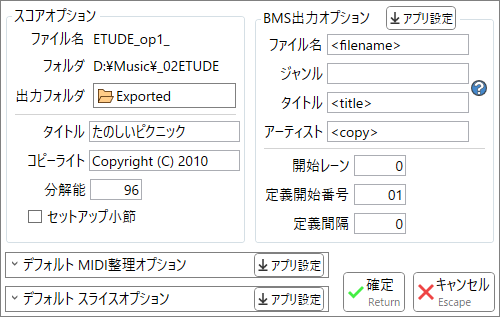
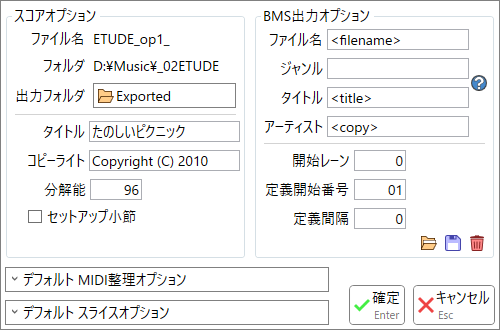
v0.7.21

diff --git a/docs/history.html b/docs/history.html
@@ -10,6 +10,61 @@
         <div class="content">
             <ul>
                 <li>
+                    <details id="0_7_21">
+                        <summary class="a-like">Version 0.7.21 (2025/08/13)</summary>
+                        <ul>
+                            <li>
+                                仕様変更
+                                <ul>
+                                    <li>
+                                        <a href="bms.html">BMSモード</a>の右クリクメニュー内「選択機能」と「アセンブル」にショートカットキーを追加しました。
+                                    </li>
+                                    <li>
+                                        <a href="bms.html">BMSモード</a>において、ファイルを保存しようとする際に、サイズが大きくなる場合は警告を表示するようにしました。
+                                    </li>
+                                    <li>
+                                        <a href="midi.html">Midiモード</a>において、トラックリストの項目をダブルクリックすると<a href="midi_trackOptions.html">トラックオプション</a>が開くようにしました。
+                                    </li>
+                                    <li>
+                                        <a href="midi.html">Midiモードの</a>「MIDI整理」「スライス」「BMS出力」の各オプションについて、プリセットをファイルとして保存及び読み込みするボタンと、全項目をデフォルト値にリセットするボタンを追加しました。
+                                        <ul>
+                                            <li>
+                                                リセットボタンで適用される「デフォルト値」はオプションの場所によって異なります。
+                                            </li>
+                                            <li>
+                                                <a href="midi_defaultOptions.html">デフォルトオプション</a>: アプリの初回起動時の値
+                                            </li>
+                                            <li>
+                                                <a href="midi_scoreOptions.html">スコアオプション</a>及びそれが参照されるウィンドウ: 「デフォルトオプション」で設定された値
+                                                <ul>
+                                                    <li>
+                                                        以前のバージョンで「アプリ設定」ボタンが担っていた役割と同じです。
+                                                    </li>
+                                                    <li>
+                                                        この変更に伴い「アプリ設定」ボタンは削除されました。
+                                                    </li>
+                                                </ul>
+                                            </li>
+                                            <li>
+                                                <a href="midi_trackOptions.html">トラックオプション</a>及びそれが参照されるウィンドウ: 「スコアオプション」で設定された値
+                                            </li>
+                                        </ul>
+                                    </li>
+                                    <li>
+                                        <a href="midi_pack.html">Midiモード/MIDI整理</a>のオプションに「右詰め」を追加しました。
+                                        <ul>
+                                            <li>
+                                                チェックした場合、そのトラック由来のノートはBMSにおいて右詰めで配置されます。
+                                            </li>
+                                        </ul>
+                                    </li>
+                                </ul>
+                            </li>
+                        </ul>
+                        <br>
+                    </details>
+                </li>
+                <li>
                     <details id="0_7_20">
                         <summary class="a-like">Version 0.7.20 (2025/08/02)</summary>
                         <ul>

diff --git a/docs/midi_defaultOptions.html b/docs/midi_defaultOptions.html
@@ -23,14 +23,17 @@
                 <h2>説明</h2>
                 要素をクリックすると説明が表示されます。
                 <div class="image-map" src="img/midi_defaultOptions.png" maps="
-                       1,  1,239,442, midi/bms_groupbox.html, center;
-                     241,  1,439,442, midi/pack_groupbox.html, center;
-                     681,  1,411,442, midi/slice_groupbox.html, center;
+                       1,  1,239, 26, midi/bms_groupbox.html;
+                     241,  1,439, 26, midi/pack_groupbox.html;
+                     681,  1,411, 26, midi/slice_groupbox.html;
                       11, 25,204, 29, midi/bms_filename.html;
                       11, 54,204, 87, midi/bms_header.html;
                       11,146,150, 29, midi/bms_startLane.html;
                       11,175,150, 29, midi/bms_defStart.html;
                       11,204,150, 29, midi/bms_defInterval.html;
+                     159,231, 24, 24, midi/options_open.html;
+                     183,231, 24, 24, midi/options_save.html;
+                     207,231, 24, 24, midi/options_reset_default.html;
                      251, 27,209, 92, midi/pack_quantize.html;
                      261,141,189, 25, midi/pack_tempo.html;
                      261,167,189, 29, midi/pack_msV.html;
@@ -42,13 +45,20 @@
                      261,395,189, 29, midi/pack_interval.html;
                      470, 49,191, 82, midi/pack_markerFormat.html;
                      471,137,189,121, midi/pack_order.html;
-                     470,259,191, 29, midi/pack_multiDef.html;
-                     470,288,191, 55, midi/pack_cutTail.html;
-                     692, 28,190,112, wave/trackMark_marking.html;
-                     701,165,172, 51, midi/slice_baseName.html;
-                     701,216,172, 29, wave/bytes.html;
-                     884, 28,197,118, wave/slice_leftProcess.html;
-                     884,150,197,147, wave/slice_rightProcess.html;
+                     470,259,191, 26, midi/pack_alignToRight.html;
+                     470,285,191, 29, midi/pack_multiDef.html;
+                     470,314,191, 55, midi/pack_cutTail.html;
+                     599,377, 24, 24, midi/options_open.html;
+                     623,377, 24, 24, midi/options_save.html;
+                     647,377, 24, 24, midi/options_reset_default.html;
+                     692, 27,198,119, wave/slice_leftProcess.html;
+                     692,146,198,149, wave/slice_rightProcess.html;
+                     890, 27,192,113, wave/trackMark_marking.html;
+                     896,164,180, 51, midi/slice_baseName.html;
+                     896,215,180, 29, wave/bytes.html;
+                    1010,251, 24, 24, midi/options_open.html;
+                    1034,251, 24, 24, midi/options_save.html;
+                    1058,251, 24, 24, midi/options_reset_default.html;
                      942,448, 56, 40, common/sub_decide.html;
                     1006,448, 82, 40, common/sub_cancel.html;">
                 </div>

diff --git a/docs/midi_scoreOptions.html b/docs/midi_scoreOptions.html
@@ -24,18 +24,18 @@
                      12,146,228, 29, midi/score_copy.html;
                      12,175,228, 29, midi/score_resolution.html;
                      12,204,228, 25, midi/score_setup.html;
-                    261, 30,227, 29, midi/bms_filename.html;
-                    261, 59,209, 87, midi/bms_header.html;
-                    261,151,227, 29, midi/bms_startLane.html;
-                    261,180,227, 29, midi/bms_defStart.html;
-                    261,209,227, 29, midi/bms_defInterval.html;
-                      5,252,324, 26, midi/score_packOptions.html;
-                      5,286,324, 26, midi/score_sliceOptions.html;
-                    386,  6, 70, 24, midi/appSetting.html;
-                    254,253, 70, 24, midi/appSetting.html;
-                    254,287, 70, 24, midi/appSetting.html;
-                    343,272, 62, 40, common/sub_decide.html;
-                    413,272, 82, 40, common/sub_cancel.html;">
+                    261, 25,227, 29, midi/bms_filename.html;
+                    261, 54,209, 87, midi/bms_header.html;
+                    261,146,227, 29, midi/bms_startLane.html;
+                    261,175,227, 29, midi/bms_defStart.html;
+                    261,204,227, 29, midi/bms_defInterval.html;
+                      5,267,324, 25, midi/score_packOptions.html;
+                      5,300,324, 25, midi/score_sliceOptions.html;
+                    417,231, 24, 24, midi/options_open.html;
+                    441,231, 24, 24, midi/options_save.html;
+                    465,231, 24, 24, midi/options_reset_score.html;
+                    349,285, 56, 40, common/sub_decide.html;
+                    413,285, 82, 40, common/sub_cancel.html;">
                 </div>
             </div>
             <div class="common" src="midi/pack_options.html"></div>

diff --git a/docs/midi_trackOptions.html b/docs/midi_trackOptions.html
@@ -18,15 +18,15 @@
                 <h2>説明</h2>
                 要素をクリックすると説明が表示されます。
                 <div class="image-map" src="img/midi_trackOptions.png" maps="
-                     12, 25,239, 29, midi/track_title.html;
-                     12, 54,239, 58, midi/track_portChannel.html;
-                     12,112,239, 27, midi/track_sideChain.html;
-                     12,139,239, 25, midi/track_system.html;
-                     12,165,239, 25, midi/track_bms.html;
-                    265, 16,152, 51, midi/track_packOptions.html;
-                    265, 75,152, 51, midi/track_sliceOptions.html;
-                    265,157, 62, 40, common/sub_decide.html;
-                    335,157, 82, 40, common/sub_cancel.html;">
+                      7, 25,249, 29, midi/track_title.html;
+                      7, 54,249, 58, midi/track_portChannel.html;
+                      7,112,249, 27, midi/track_sideChain.html;
+                      7,139,249, 25, midi/track_system.html;
+                      7,165,249, 25, midi/track_bms.html;
+                    265, 16,146, 51, midi/track_packOptions.html;
+                    265, 75,146, 51, midi/track_sliceOptions.html;
+                    265,157, 56, 40, common/sub_decide.html;
+                    329,157, 82, 40, common/sub_cancel.html;">
                 </div>
             </div>
             <div class="common" src="midi/pack_options.html"></div>

diff --git a/docs/midi_bmsExport.html b/docs/midi_bmsExport.html
@@ -18,16 +18,19 @@
                 <h2>説明</h2>
                 要素をクリックすると説明が表示されます。
                 <div class="image-map" src="img/midi_bmsExport.png" maps="
-                      5,  5,242,360, midi/bms_track.html, center;
+                      5,  5,242,380, midi/bms_track.html, center;
                     261, 26,220, 50, midi/bms_target.html;
                     261, 77,220, 29, midi/bms_filename.html;
                     261,106,200, 87, midi/bms_header.html;
                     261,198,220, 29, midi/bms_startLane.html;
                     261,227,220, 29, midi/bms_defStart.html;
                     261,256,220, 29, midi/bms_defInterval.html;
-                    373,295,118, 25, midi/bms_open.html;
-                    307,325, 90, 40, midi/bms_export.html;
-                    405,325, 82, 40, common/sub_cancel.html;">
+                    409,283, 24, 24, midi/options_open.html;
+                    433,283, 24, 24, midi/options_save.html;
+                    457,283, 24, 24, midi/options_reset_score.html;
+                    373,315,118, 25, midi/bms_open.html;
+                    307,345, 90, 40, midi/bms_export.html;
+                    405,345, 82, 40, common/sub_cancel.html;">
                 </div>
             </div>
         </div>

diff --git a/docs/midi/options_reset.html b/docs/midi/options_reset.html
@@ -1,0 +1,20 @@
+<h3><img src="img/icons/Delete.png" class="icon">内容の初期化</h3>
+<ul>
+    <li>
+        各項目の内容をデフォルト値にします。
+    </li>
+    <li>
+        何がデフォルト値として参照されるかはオプションの場所によって異なります。
+        <ul>
+            <li>
+                <a href="midi_defaultOptions.html">デフォルトオプション</a>: アプリの初回起動時の値
+            </li>
+            <li>
+                <a href="midi_scoreOptions.html">スコアオプション</a>及びそれが参照されるウィンドウ: 「デフォルトオプション」で設定された値
+            </li>
+            <li>
+                <a href="midi_trackOptions.html">トラックオプション</a>及びそれが参照されるウィンドウ: 「スコアオプション」で設定された値
+            </li>
+        </ul>
+    </li>
+</ul>

diff --git a/docs/midi_pack.html b/docs/midi_pack.html
@@ -31,8 +31,12 @@
                      11,429,189, 29, midi/pack_interval.html;
                     220, 83,191, 82, midi/pack_markerFormat.html;
                     221,171,189,121, midi/pack_order.html;
-                    220,293,191, 29, midi/pack_multiDef.html;
-                    220,322,191, 55, midi/pack_cutTail.html;
+                    220,293,191, 26, midi/pack_alignToRight.html;
+                    220,319,191, 29, midi/pack_multiDef.html;
+                    220,348,191, 55, midi/pack_cutTail.html;
+                    349,411, 24, 24, midi/options_open.html;
+                    373,411, 24, 24, midi/options_save.html;
+                    397,411, 24, 24, midi/options_reset.html;
                      93,472, 90, 40, midi/pack_export.html;
                     191,472,136, 40, midi/pack_and_next.html;
                     335,472, 82, 40, common/sub_cancel.html;">

diff --git a/docs/midi/slice_options.html b/docs/midi/slice_options.html
@@ -2,11 +2,14 @@
     <h2>スライスオプション</h2>
     要素をクリックすると説明が表示されます。
     <div class="image-map" src="img/midi_slice_options.png" maps="
-          2,  4,190,112, wave/trackMark_marking.html;
-         11,141,172, 51, midi/slice_baseName.html;
-         11,192,172, 29, wave/bytes.html;
-        194,  4,197,118, wave/slice_leftProcess.html;
-        194,126,197,145, wave/slice_rightProcess.html;
+          1,  1,199,123, wave/slice_leftProcess.html;
+          1,124,199,148, wave/slice_rightProcess.html;
+        200,  1,193,115, wave/trackMark_marking.html;
+        206,140,180, 51, midi/slice_baseName.html;
+        206,191,180, 29, wave/bytes.html;
+        320,227, 24, 24, midi/options_open.html;
+        344,227, 24, 24, midi/options_save.html;
+        368,227, 24, 24, midi/options_reset.html;
         ">
     </div>
 </div>

diff --git a/docs/midi/pack_options.html b/docs/midi/pack_options.html
@@ -12,9 +12,13 @@
        11,342,189, 29, midi/pack_headroom.html;
        11,371,189, 29, midi/pack_interval.html;
       220, 25,191, 82, midi/pack_markerFormat.html;
-      221,113,189,121, midi/pack_order.html;
-      220,235,191, 29, midi/pack_multiDef.html;
-      220,264,191, 55, midi/pack_cutTail.html;
+      220,113,191,121, midi/pack_order.html;
+      220,235,191, 26, midi/pack_alignToRight.html;
+      220,261,191, 29, midi/pack_multiDef.html;
+      220,290,191, 55, midi/pack_cutTail.html;
+      349,353, 24, 24, midi/options_open.html;
+      373,353, 24, 24, midi/options_save.html;
+      397,353, 24, 24, midi/options_reset.html;
       ">
   </div>
   <ul>

diff --git a/docs/midi/options_open.html b/docs/midi/options_open.html
@@ -1,0 +1,12 @@
+<h3><img src="img/icons/Open.png" class="icon">プリセットの読み込み</h3>
+<ul>
+    <li>
+        このオプションの内容が記録された<span class="script">.json</span>ファイルを開き、<br>
+        各項目の内容に反映します。
+    </li>
+    <li>
+        <b>読み込んだ<span class="script">.json</span>が期待通りの構造であるかは確認しません</b>。<br>
+        必要な項目が<span class="script">.json</span>側で定義されていない場合は、<br>
+        アプリで用意されたデフォルト値が適用されます。
+    </li>
+</ul>

diff --git a/docs/midi/pack_alignToRight.html b/docs/midi/pack_alignToRight.html
@@ -1,0 +1,15 @@
+<h3>右詰め</h3>
+<ul>
+    <li>
+        チェックした場合、複数のBGMレーンを占有するトラックについて、<br>
+        右詰めでノートが配置されるようになります。
+    </li>
+</ul>
+<div style="display: grid;
+    grid-template-columns: repeat(2, max-content);
+    column-gap: 6px;">
+    <span style="text-align: center; font-weight: bold;">通常</span>
+    <span style="text-align: center; font-weight: bold;">右詰め</span>
+    <img src="img/midi_pack_alignLeft.png">
+    <img src="img/midi_pack_alignRight.png">
+</div>

diff --git a/docs/index.html b/docs/index.html
@@ -11,7 +11,7 @@
             <div class="stack">
                 <a href="https://github.com/Kuroki-Narumi/BmsMaker3-Manual/releases" target="_blank">
                     <img src="img/logo.png" style="max-width: 100%;"/><br>
-                    Version 0.7.20<br>
+                    Version 0.7.21<br>
                 </a>
                 オールインワン型BMS制作補助ツール<br>
             </div>
